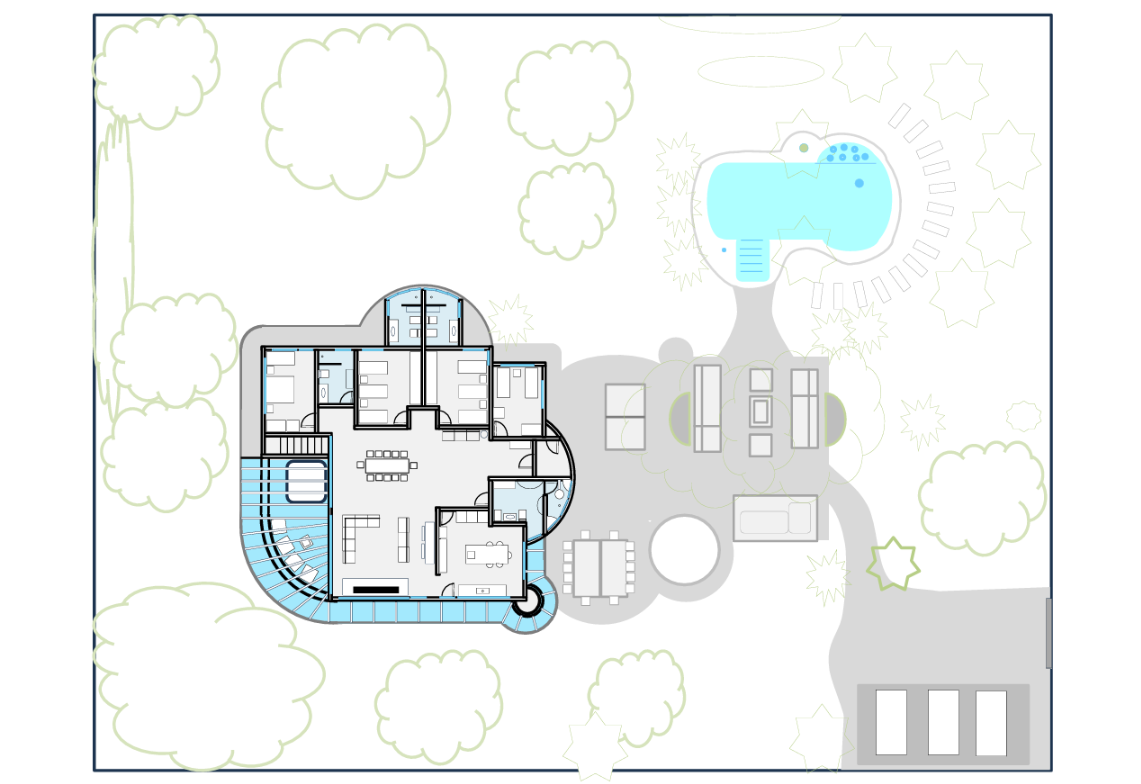
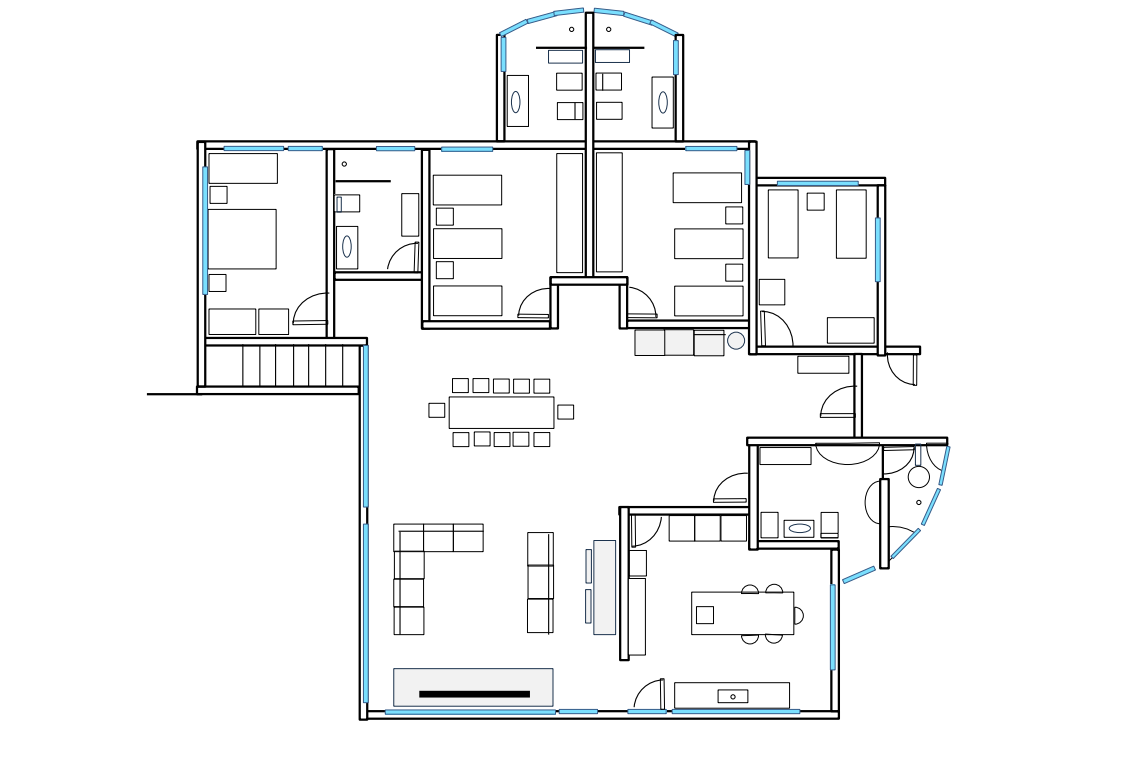
floor plan change

diff --git a/src/Components/ReusableComp/FloorPlan/FloorPlan2.jsx b/src/Components/ReusableComp/FloorPlan/FloorPlan2.jsx
@@ -1,21 +1,24 @@
-import React from 'react';
-import { FileText, Download, ExternalLink } from 'lucide-react';
+import React, { useState } from 'react';
+import { Download, ZoomIn, X } from 'lucide-react'; // Swapped ExternalLink for ZoomIn
 
-// --- YOUR PDF IMPORTS ---
-
-const FloorPlan2 = ({ 
-    title = "Floor Plans", 
-    description = "Download or view our detailed architectural plans to get a complete understanding of the villa's layout and dimensions.", 
-    data = floorData 
+const FloorPlan2 = ({
+    title = "Floor Plans",
+    description = "", data = []
 }) => {
+    // STATE: Keeps track of which background image is currently open. 
+    // Null means the gallery is closed.
+    const [activeLightboxImage, setActiveLightboxImage] = useState(null);
+
     return (
         <section className="py-20 bg-white scroll-mt-16" id="floor-plans">
             <div className="max-w-[1350px] mx-auto px-4 md:px-8">
 
-                {/* Section Header (Now uses props!) */}
+                {/* Section Header */}
                 <div className="text-center mb-16">
                     <h2 className="text-3xl md:text-6xl font-serif text-[#17818A] mb-4">{title}</h2>
-                
+                    {description && (
+                        <p className="text-gray-500 text-lg max-w-2xl mx-auto">{description}</p>
+                    )}
                 </div>
 
                 {/* PDF Cards Grid */}
@@ -25,63 +28,87 @@ const FloorPlan2 = ({
                             key={plan.id}
                             className="relative group rounded-[24px] overflow-hidden border border-gray-200 shadow-[0_4px_20px_rgba(0,0,0,0.06)] hover:shadow-xl hover:border-[#17818A]/50 transition-all duration-500 flex flex-col h-full min-h-[300px]"
                         >
-                            {/* --- BLURRY BACKGROUND IMAGE LAYER --- */}
+                            {/* --- BACKGROUND IMAGE LAYER --- */}
                             <div className="absolute inset-0 z-0 overflow-hidden">
-                                <img 
-                                    src={plan.bgImage} 
-                                    alt="Background" 
-                                    className="w-full h-full object-cover blur-[0px]  transition-transform duration-700"
+                                <img
+                                    src={plan.bgImage}
+                                    alt="Background"
+                                    className="w-full h-full object-cover transition-transform duration-700 group-hover:scale-105"
                                 />
-                                {/* Light overlay so the dark text remains perfectly readable */}
-                                <div className="absolute inset-0  bg-white/25  backdrop-blur-[1px]"></div>
+                                {/* Light overlay for text readability */}
+                                <div className="absolute inset-0 bg-white/40 backdrop-blur-[2px] transition-all duration-300 group-hover:bg-white/20"></div>
                             </div>
 
-                            {/* --- CONTENT LAYER (Needs relative & z-10 to sit above the background) --- */}
+                            {/* --- CONTENT LAYER --- */}
                             <div className="relative z-10 p-6 md:p-8 flex flex-col h-full">
-                                
-                                {/* Icon & Title Area */}
-                                <div className="mb-6 flex items-start gap-4">
-                                    {/* <div className="w-12 h-12 rounded-full bg-white shadow-sm text-[#17818A] flex items-center justify-center flex-shrink-0 group-hover:scale-110 group-hover:bg-[#17818A] group-hover:text-white transition-all duration-300">
-                                        <FileText className="w-6 h-6" />
-                                    </div> */}
-                                    <div>
-                                        {/* <h3 className="text-xl font-bold text-[#0a2342] mb-2">{plan.title}</h3> */}
-                                     
-                                    </div>
-                                </div>
 
-                                {/* Push buttons to the bottom */}
-                                <div className="mt-auto pt-6 border-t border-[#17818A]/10 flex items-center gap-3">
 
-                                    {/* View Button */}
-                                    <a
-                                        href={plan.fileUrl}
-                                        target="_blank"
-                                        rel="noopener noreferrer"
-                                        className="flex-1 flex items-center justify-center gap-2 py-3 px-4 rounded-xl bg-white shadow-sm border border-gray-100 text-[#17818A] font-bold hover:bg-[#17818A] hover:text-white transition-all duration-300"
+                                {/* Buttons Container (Pushed to bottom) */}
+                                <div className="mt-auto pt-6 flex items-center gap-3">
+
+                                    {/* VIEW BUTTON - Opens the Lightbox */}
+                                    <button
+                                        onClick={() => setActiveLightboxImage(plan)}
+                                        className="flex-1 cursor-pointer flex items-center justify-center gap-2 py-3 px-4 rounded-xl bg-white shadow-sm border border-gray-100 text-[#17818A] font-bold hover:bg-[#17818A] hover:text-white transition-all duration-300 group/btn"
                                     >
-                                        <ExternalLink className="w-4 h-4" />
+                                        <ZoomIn className="w-5 h-5 transition-transform group-hover/btn:scale-110" />
                                         <span>{plan.title}</span>
-                                    </a>
+                                    </button>
 
-                                    {/* Download Button */}
-                                    <a
+                                    {/* DOWNLOAD BUTTON */}
+                                    {/* <a
                                         href={plan.fileUrl}
                                         download
                                         className="flex-none flex items-center justify-center w-12 h-12 rounded-xl bg-white shadow-sm border border-gray-100 text-gray-600 hover:bg-yellow-400 hover:text-black hover:border-yellow-400 transition-all duration-300"
                                         title={`Download ${plan.title}`}
                                     >
                                         <Download className="w-5 h-5" />
-                                    </a>
+                                    </a> */}
 
                                 </div>
                             </div>
-
                         </div>
                     ))}
                 </div>
 
             </div>
+
+            {/* --- LIGHTBOX OVERLAY --- */}
+            {activeLightboxImage && (
+                <div
+                    className="fixed inset-0 z-[100] flex items-center justify-center bg-black/90 backdrop-blur-sm p-4 md:p-8 animate-in fade-in duration-300"
+                    onClick={() => setActiveLightboxImage(null)} // Closes when clicking outside the image
+                >
+                    {/* Image Container */}
+                    <div
+                        className="relative w-full max-w-5xl max-h-[90vh] flex flex-col items-center justify-center"
+                        onClick={(e) => e.stopPropagation()} // Prevents clicking the image from closing the overlay
+                    >
+
+                        {/* Close Button (Top Right) */}
+                        <button
+                            onClick={() => setActiveLightboxImage(null)}
+                            className="absolute -top-12 right-0 text-white/70 hover:text-white hover:rotate-90 transition-all duration-300 bg-white/10 hover:bg-white/20 rounded-full p-2"
+                            aria-label="Close gallery"
+                        >
+                            <X className="w-8 h-8" />
+                        </button>
+
+                        {/* Title Display */}
+                        <h3 className="absolute -top-10 left-0 text-white font-serif text-2xl tracking-wide drop-shadow-md">
+                            {activeLightboxImage.title}
+                        </h3>
+
+                        {/* The Full Size Background Image */}
+                        <img
+                            src={activeLightboxImage.bgImage}
+                            alt={activeLightboxImage.title}
+                            className="w-full h-full max-h-[85vh] object-contain rounded-xl shadow-2xl"
+                        />
+
+                    </div>
+                </div>
+            )}
         </section>
     );
 };

diff --git a/src/Data/floorData.js b/src/Data/floorData.js
@@ -4,14 +4,14 @@ import pdf1 from '../assets/all-nature-floorPlan/All Nature plot plans.pdf';
 import pdf2 from '../assets/all-nature-floorPlan/All Nature Floor plan 1-Ground floor.pdf';
 import pdf3 from '../assets/all-nature-floorPlan/All Nature Floor plan2- Semi-basement .pdf';
 
-import bg1 from '../assets/all-nature-floorPlan/f1.png';
-import bg2 from '../assets/all-nature-floorPlan/f2.png';
-import bg3 from '../assets/all-nature-floorPlan/f6.png';
+import bg1 from '../assets/all-nature-floorPlan/f9.png';
+import bg2 from '../assets/all-nature-floorPlan/f10.png';
+import bg3 from '../assets/all-nature-floorPlan/f11.png';
 
 const floorData = [
     {
         id: 1,
-        title: "Ground Floor Plan",
+        title: "Garden Plot Plan",
         description:
             "Detailed layout of the main living areas, kitchen, and outdoor spaces.",
         fileUrl: pdf1,
@@ -19,7 +19,7 @@ const floorData = [
     },
     {
         id: 2,
-        title: "Semi-Basement Plan",
+        title: "Ground Floor Plan",
         description:
             "Explore the lower level layout, including additional rooms and amenities.",
         fileUrl: pdf2,
@@ -27,7 +27,7 @@ const floorData = [
     },
     {
         id: 3,
-        title: "Master Plot Plan",
+        title: "Semi-Basement Plan",
         description:
             "Complete property overview including the pool, gardens, and property boundaries.",
         fileUrl: pdf3,